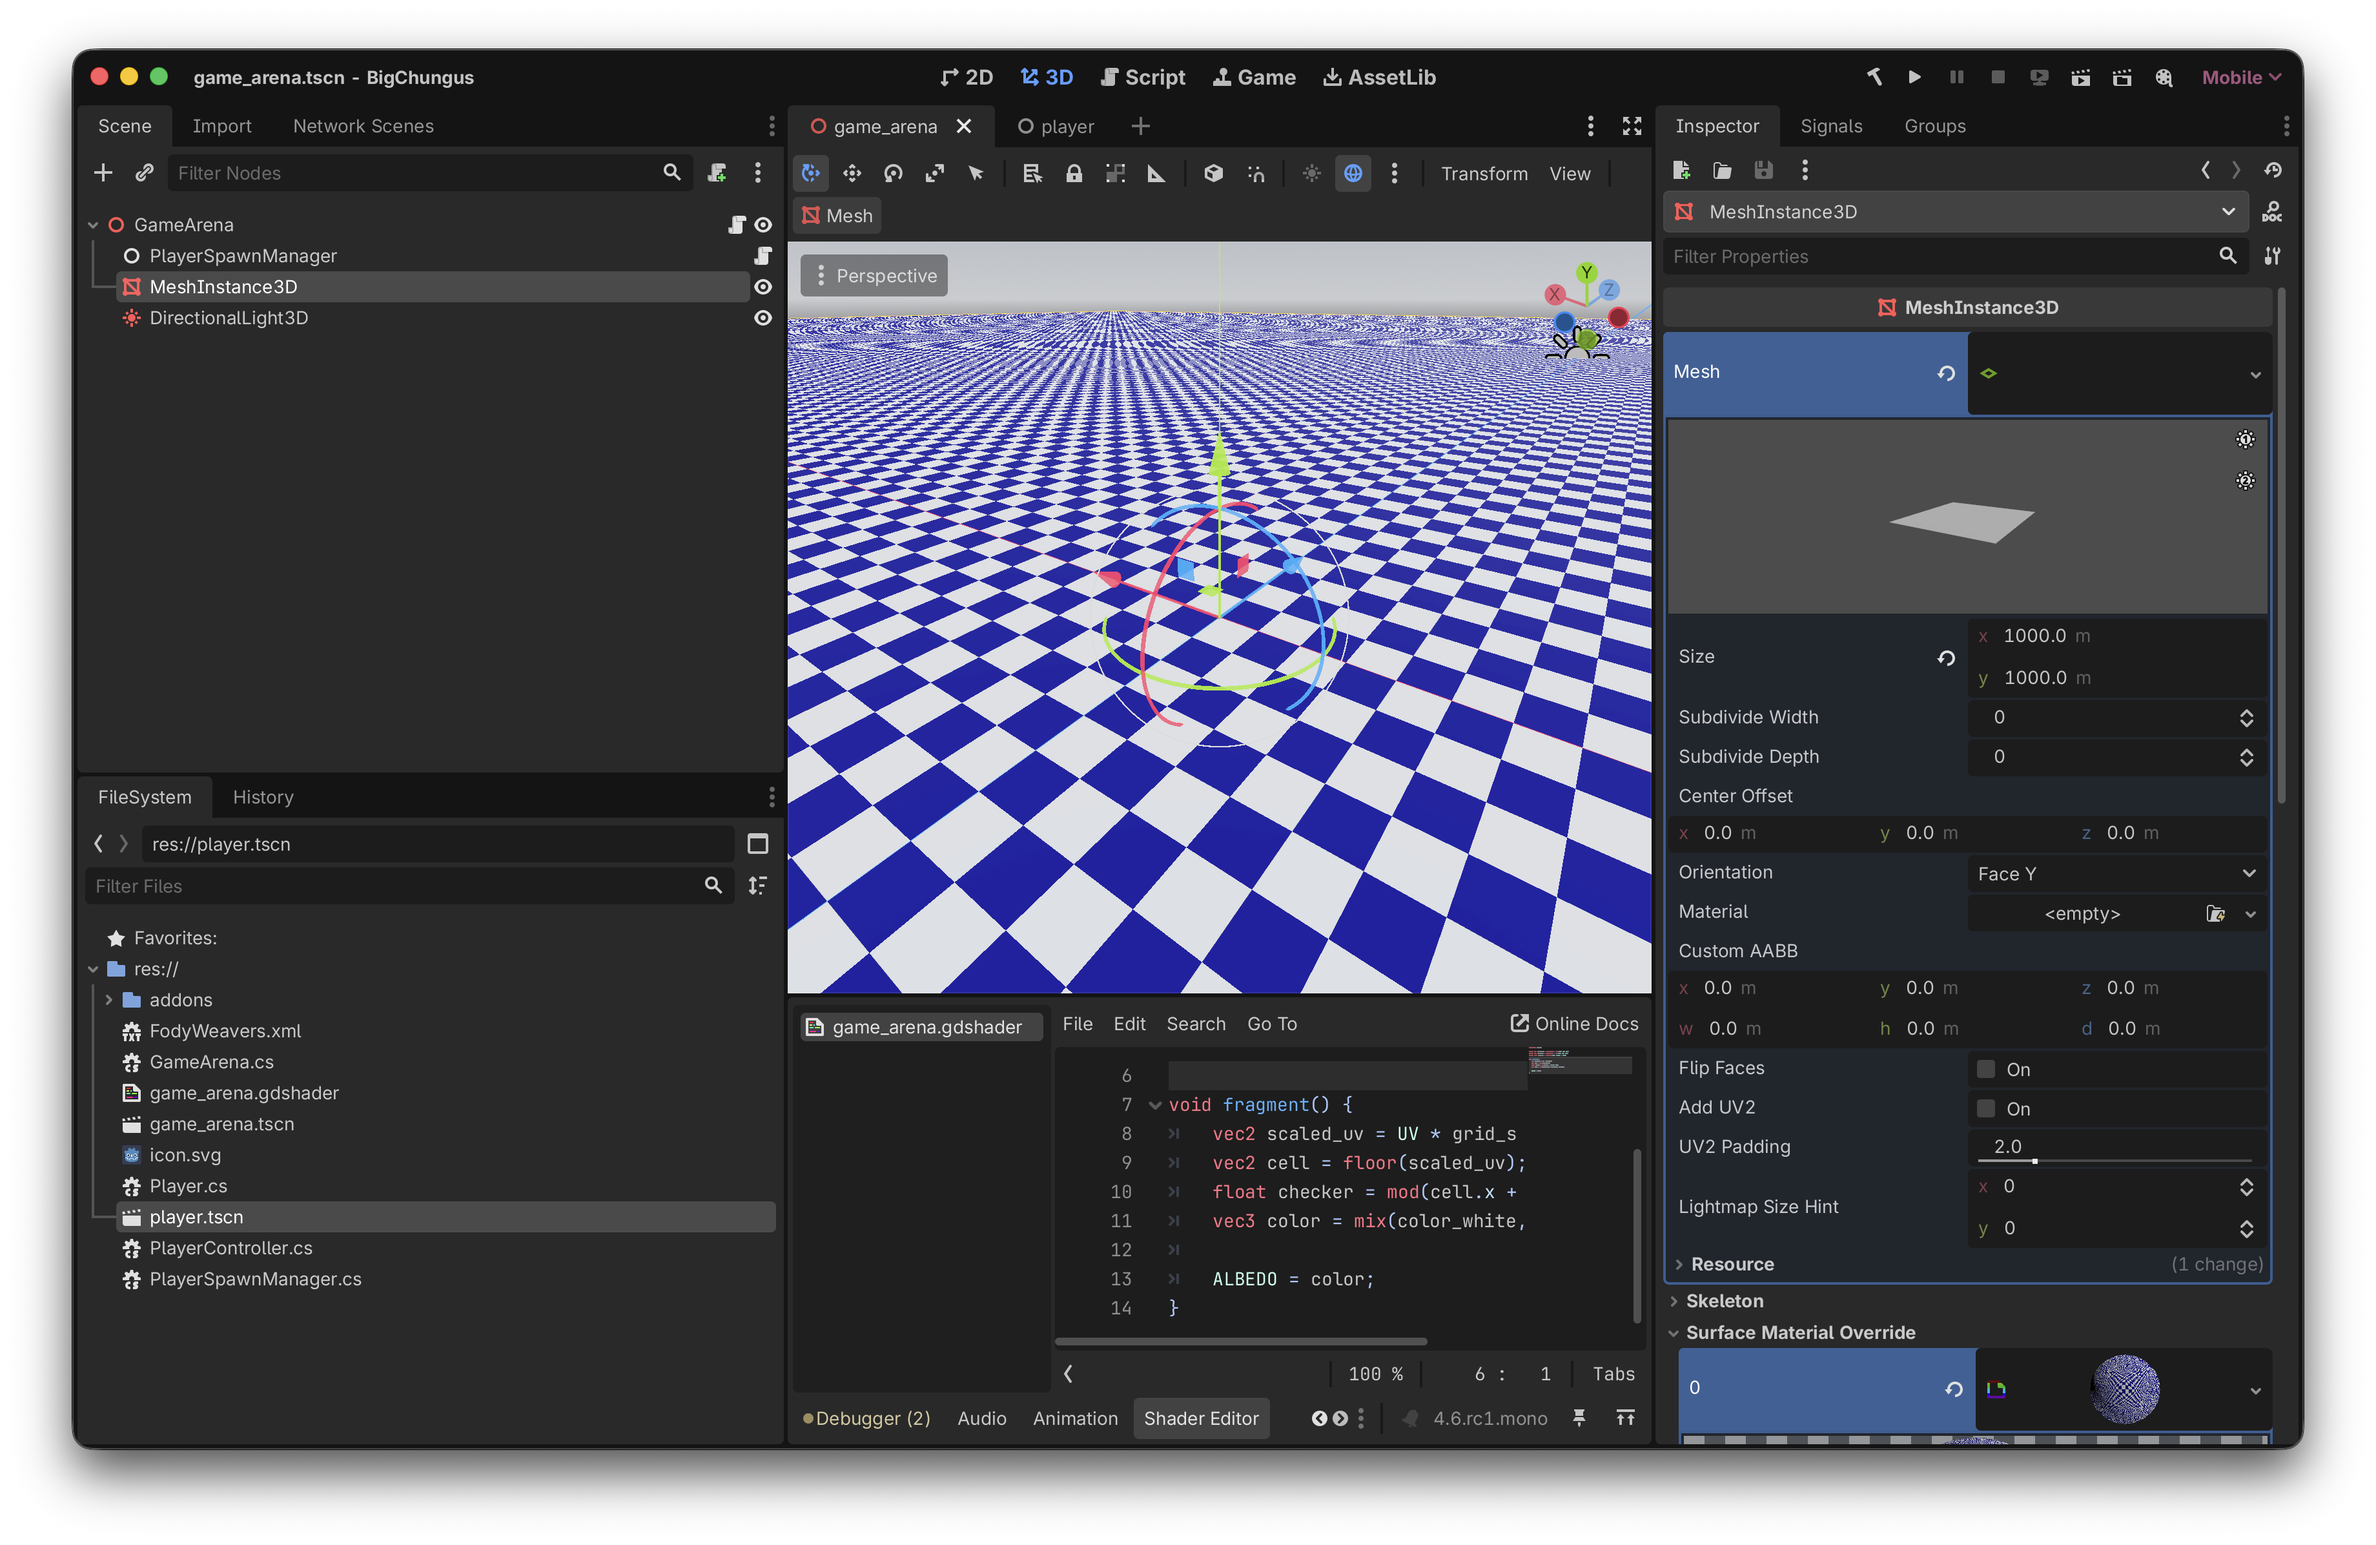
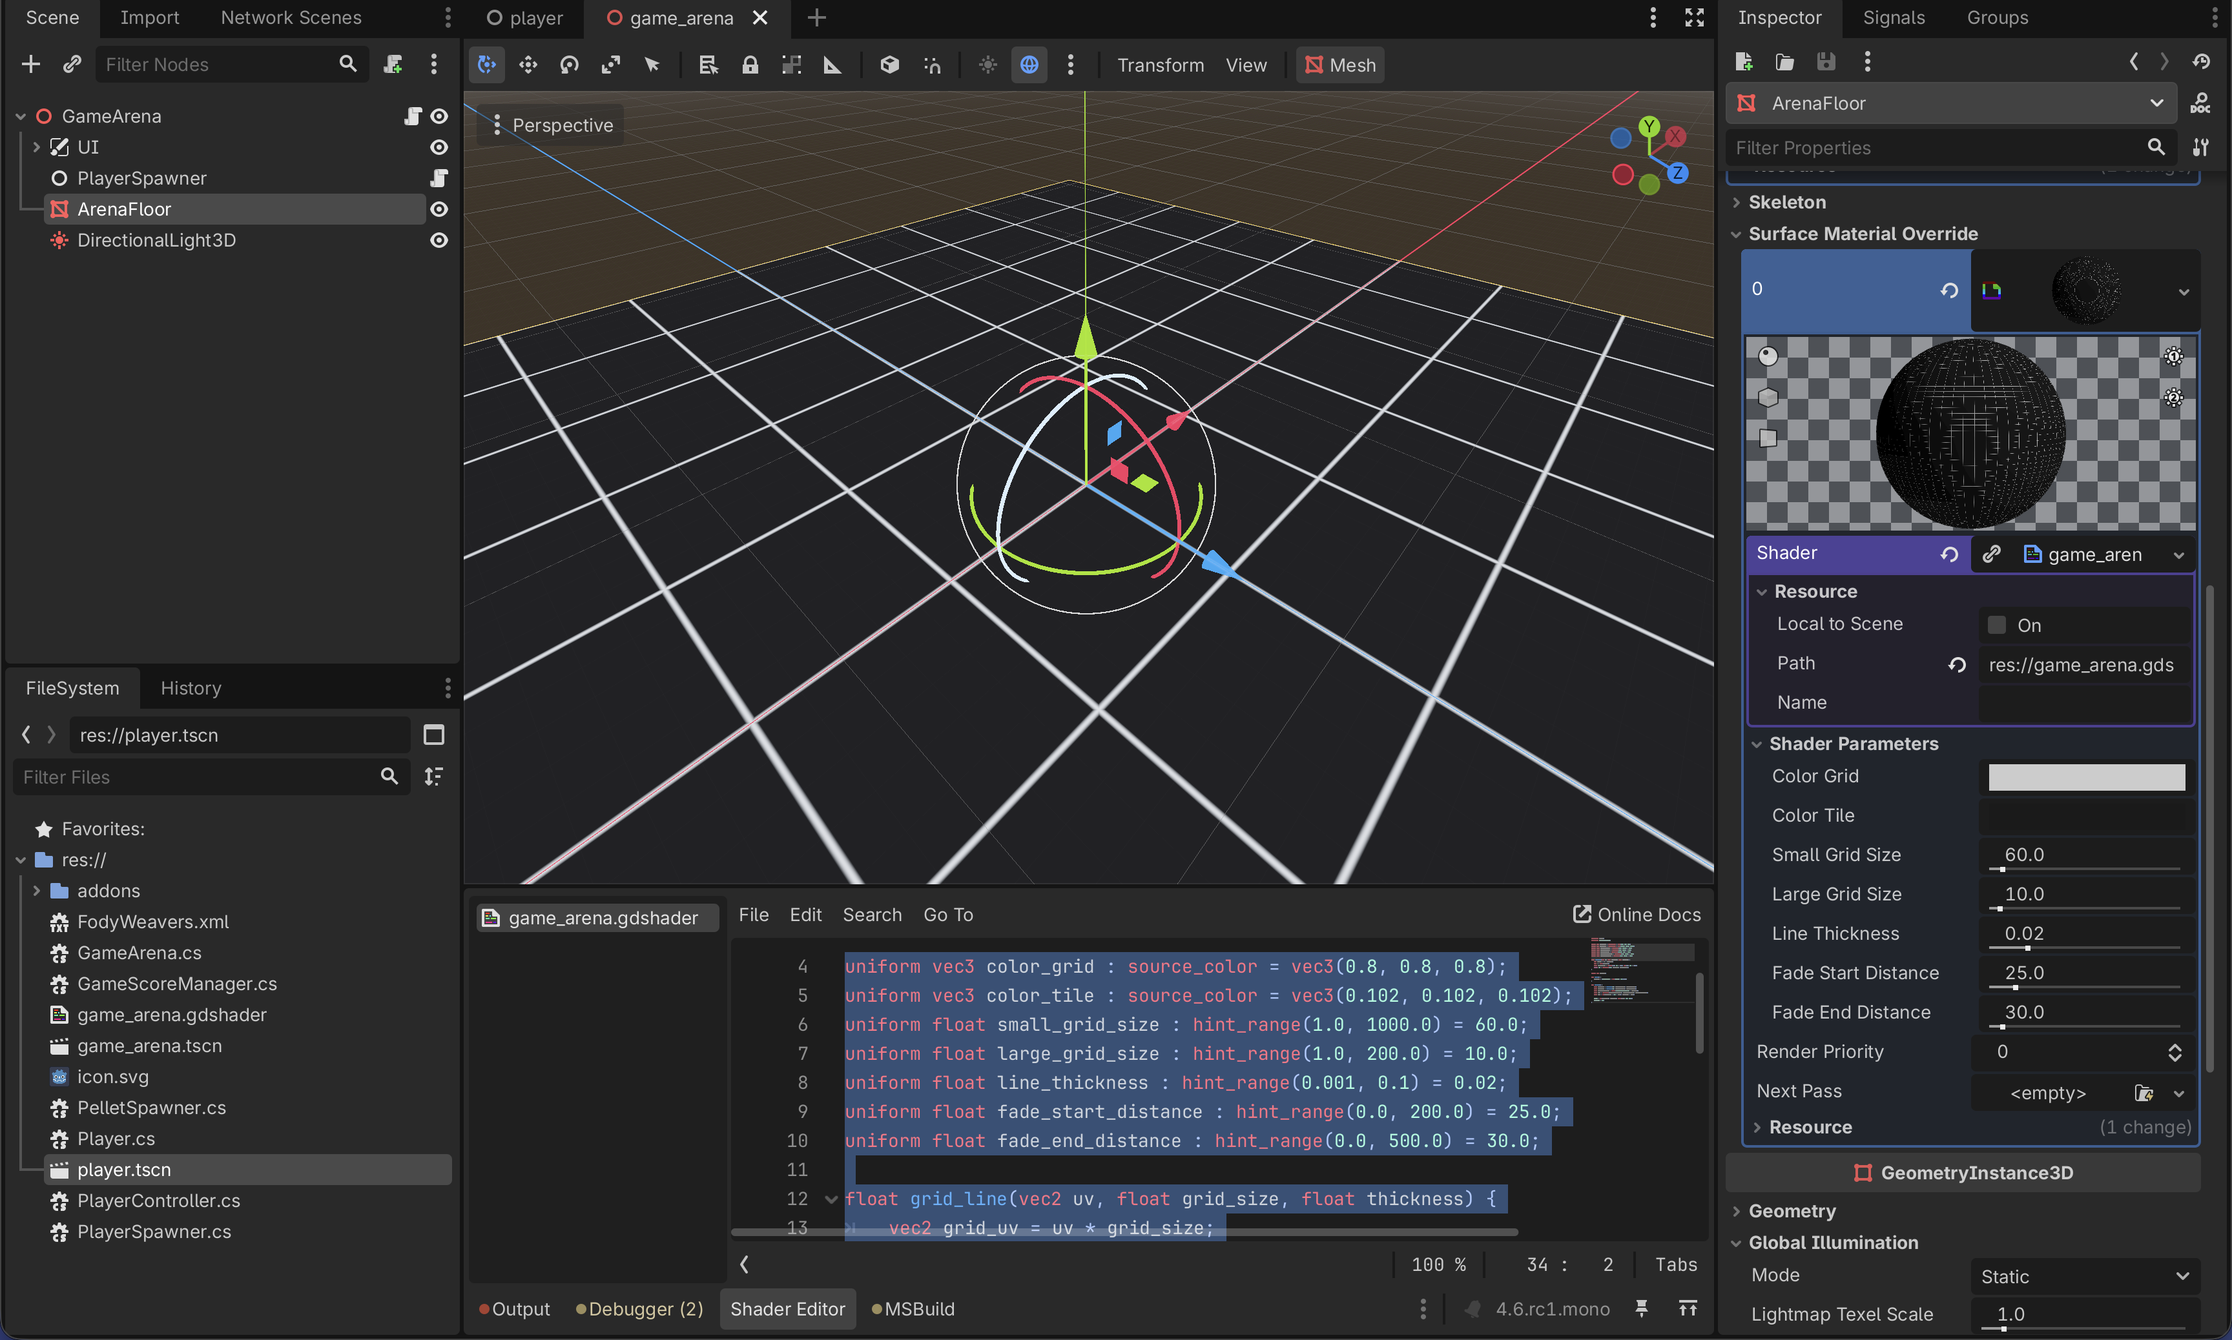
Chapter 2 cleanup (#48)

diff --git a/Documentation/tutorials/big-chungus-online/chapter-2-building-the-game.md b/Documentation/tutorials/big-chungus-online/chapter-2-building-the-game.md
@@ -74,8 +74,8 @@ public partial class Player : NetNode
         if (Network.IsClient && Network.IsCurrentOwner) {
             var camera = new Camera3D();
             camera.Position = new Vector3(0, 10, 0);
-            camera.LookAt(new Vector3(0, 0, 0));
             GetNode("Model").AddChild(camera);
+            camera.LookAt(new Vector3(0, 0, 0));
         }
     }
 }
@@ -88,74 +88,182 @@ A few things are happening here:
 3. We check if it is a client running the code (we don't want the server to add a camera) and we make sure the current client owns the NetNode.
 4. We instantiate our camera to be positioned above the model and pointing downwards, to look at it from above.
 
+## Main Menu
+
+Real quick, we'll setup a spot for the players to drop into once they open the game, as well as where to return when their character is eaten.
+
+Let's put together a quick and simple UI for this purpose. It can be laid out however we want, so feel free to be creative. The most imporant element is a button to enter the game.
+
+Here's an example layout:
+
+![Player Spawn Manager Setup](~/images/big-chungus/chapter-2/ui.png)
+
+![Player Spawn Manager Setup](~/images/big-chungus/chapter-2/ui-preview.png)
+
 ## Spawning And Playing
 
-Now let's go ahead and spawn our players in. Going back to `game_arena.tscn` we'll add a new Node called "PlayerSpawnManager" with a script attached:
+Now let's go ahead and spawn our players in when they click Play. Going back to `game_arena.tscn` we'll add a new Node called "PlayerSpawner" with a script attached:
 
 ![Player Spawn Manager Setup](~/images/big-chungus/chapter-2/player-spawn-manager-setup.png)
 
+
 ```cs
+using System.Collections.Generic;
 using Godot;
 using Nebula;
 
-public partial class PlayerSpawnManager : NetNode
+public partial class PlayerSpawner : NetNode
 {
     [Export]
     public PackedScene CharacterScene;
-    public override void _WorldReady()
+
+    [Export]
+    public Control StartScreen;
+    
+    [Export]
+    public Control ScoreContainer;
+}
+```
+
+First, let's create handlers for when they click "Play" and "Exit", wiring up the button Pressed signals to their respective functions:
+
+```cs
+    public void _OnPlay()
     {
-        base._WorldReady();
-        
-        if (Network.IsServer) {
-            Network.CurrentWorld.OnPlayerJoined += _OnPlayerJoined;
-        }
+        StartScreen.Visible = false;
+        ScoreContainer.Visible = true;
+        JoinGame();
     }
 
-    private void _OnPlayerJoined(UUID peerId)
+    public void _OnExit()
     {
-        var playerCharacter = CharacterScene.Instantiate<Player>();
-        Network.CurrentWorld.Spawn(playerCharacter, inputAuthority: NetRunner.Instance.Peers[peerId]);
+        GetTree().Quit();
+    }
+```
+
+Now we'll implement JoinGame. This will be how our client tells our server to spawn them in with a new player.
+
+```cs
+    [NetFunction(Source = NetFunction.NetworkSources.Client, ExecuteOnCaller = false)]
+    public void JoinGame()
+    {
+    }
+```
+
+Here we're defining a `NetFunction`. This is Nebula's version of an RPC. `Source` and `ExecuteOnCaller` parameters are self-explanatory: the RPC can only be initiated by a client, and the caller will not execute the function themselves.
+
+In other words, a client can call `JoinGame()` and it will only run on the server.
+
+This function is very simple: the server must spawn a new player scene for the client.
+
+```cs
+    [NetFunction(Source = NetFunction.NetworkSources.Client, ExecuteOnCaller = false)]
+    public void JoinGame()
+    {   
+        var newPlayer = CharacterScene.Instantiate<Player>();
+        Network.CurrentWorld.Spawn(newPlayer, inputAuthority: Network.CurrentWorld.NetFunctionContext.Caller);
+    }
+```
+
+That's it! So to recap:
+
+1. Client clicks "Play!" UI button
+2. UI button calls `_OnPlay()` via a "Pressed" signal
+3. `_OnPlay()` calls `JoinGame()`
+4. `JoinGame` executes on the server
+5. The server spawns a new player character scene and sets the "Input Authority" to the client that called JoinGame
+
+Input Authority is essentially the "Owner". It says which client owns the node, meaning they're allowed to send inputs (like movement) to that node. Earlier, we had that conditional `Network.IsCurrentOwner`. This is exactly what that is.
+
+So the overall script for player spawning will look like this:
+
+```cs
+using System.Collections.Generic;
+using Godot;
+using Nebula;
+
+public partial class PlayerSpawner : NetNode
+{
+    [Export]
+    public PackedScene CharacterScene;
+
+    [Export]
+    public Control StartScreen;
+    
+    [Export]
+    public Control ScoreContainer;
+
+    [NetFunction(Source = NetFunction.NetworkSources.Client, ExecuteOnCaller = false)]
+    public void JoinGame()
+    {
+        var newPlayer = CharacterScene.Instantiate<Player>();
+        Network.CurrentWorld.Spawn(newPlayer, inputAuthority: Network.CurrentWorld.NetFunctionContext.Caller);
+    }
+
+    public void _OnPlay()
+    {
+        StartScreen.Visible = false;
+        ScoreContainer.Visible = true;
+        JoinGame();
+    }
+
+    public void _OnExit()
+    {
+        GetTree().Quit();
     }
 }
 ```
 
-Be sure to attach the character scene:
-![Attach Character Scene](~/images/big-chungus/chapter-2/character-scene.png)
-
-On the server side, the PlayerSpawnManager is hooking into the World's "player join" event, and spawning a player.tscn for them.
-
-Notice the `inputAuthority` part? That's what designates who owns the node. Earlier in our `Player.cs` script we had `Network.IsCurrentOwner`. We're saying the peer who just joined is the owner if this newly spawned node. We'll see more about what that means shortly.
+>[!WARNING] Be sure to attach the exported variables in Godot! You'll need to attach the character scene, the start screen UI to hide, and the score container to show when they join the game.
 
 ## Level Setup & Running The Game
 
-Let's get ready to run the game. The last thing we'll do is just add a plane MeshInstance3D to the `game_arena.tscn` for the "floor" of the level that our players can move around on. We can also add a custom texture to it, to make it easy to see when the player is moving. Here's a simple shader which will render a grid on the plane:
+The last thing we'll do is just add a plane MeshInstance3D to the `game_arena.tscn` for the "floor" of the level that our players can move around on, and a directional light to see.
+
+We can also add a custom texture to the floor, to make it easy to see when the player is moving and make things look more interesting. Here's a simple shader which will render a grid on the plane:
 
 
-```
+```GLSL
 shader_type spatial;
+render_mode specular_disabled;
 
-uniform vec3 color_white : source_color = vec3(0.8, 0.8, 0.8);
-uniform vec3 color_navy : source_color = vec3(0.0, 0.0, 0.5);
-uniform float grid_size : hint_range(1.0, 1000.0) = 500.0;
+uniform vec3 color_grid : source_color = vec3(0.8, 0.8, 0.8);
+uniform vec3 color_tile : source_color = vec3(0.102, 0.102, 0.102);
+uniform float small_grid_size : hint_range(1.0, 1000.0) = 60.0;
+uniform float large_grid_size : hint_range(1.0, 200.0) = 10.0;
+uniform float line_thickness : hint_range(0.001, 0.1) = 0.02;
+uniform float fade_start_distance : hint_range(0.0, 200.0) = 25.0;
+uniform float fade_end_distance : hint_range(0.0, 500.0) = 30.0;
+
+float grid_line(vec2 uv, float grid_size, float thickness) {
+	vec2 grid_uv = uv * grid_size;
+	vec2 f = fract(grid_uv);
+	float dist_to_line = min(min(f.x, 1.0 - f.x), min(f.y, 1.0 - f.y));
+	return 1.0 - smoothstep(0.0, thickness, dist_to_line);
+}
+
+varying vec3 world_pos;
+
+void vertex() {
+	world_pos = (MODEL_MATRIX * vec4(VERTEX, 1.0)).xyz;
+}
 
 void fragment() {
-	vec2 scaled_uv = UV * grid_size;
-	vec2 cell = floor(scaled_uv);
-	float checker = mod(cell.x + cell.y, 2.0);
-	vec3 color = mix(color_white, color_navy, checker);
-	
-	ALBEDO = color;
+	float small_line = grid_line(UV, small_grid_size, line_thickness);
+	float large_line = grid_line(UV, large_grid_size, line_thickness);
+	float distance_to_camera = length(CAMERA_POSITION_WORLD - world_pos);
+	float fade = smoothstep(fade_start_distance, fade_end_distance, distance_to_camera);
+	float line = max(small_line * (1.0 - fade), large_line * fade);
+
+	ALBEDO = mix(color_tile, color_grid, clamp(line, 0.0, 1.0));
+	ROUGHNESS = 1.0;
 }
 ```
 
 ![Level Floor Setup](~/images/big-chungus/chapter-2/level-floor-setup.png)
 
-Let's also add a simple directional light with shadow casting.
-
-![Light Setup](~/images/big-chungus/chapter-2/light-setup.png)
-
 That's it! Now run the game and we should see something similar to the following:
 
-![First Game Run](~/images/big-chungus/chapter-2/game-animation.gif)
+![First Game Run](~/images/big-chungus/chapter-2/players.gif)
 
-The player characters and game arena are all setup. In the next chapter, we'll handle player inputs (movement), and points / character growth.
+The player characters and game arena are all setup. In the next chapter, we'll handle the core gameplay: player inputs (movement); points; character growth.

diff --git a/README.md b/README.md
@@ -245,7 +245,7 @@ worldRunner.Spawn(player, inputAuthority: peer);
 
 ## Documentation
 
-Comprehensive documentation is available at: **https://nebula.dev.heavenlode.com**
+Comprehensive documentation is available at: **https://nebula.heavenlode.com**
 
 For implementation details and architecture overview, see [NEBULA_OVERVIEW.mdc](./NEBULA_OVERVIEW.mdc). This file is particularly useful for AI/vibe coding as well.
 

diff --git a/Documentation/tutorials/big-chungus-online/chapter-1-getting-started.md b/Documentation/tutorials/big-chungus-online/chapter-1-getting-started.md
@@ -13,6 +13,7 @@ As an introduction to Nebula, we're going to make a game called Big Chungus Onli
 >[!NOTE] The tutorial was done on macOS, but the steps should all be basically the same on Windows and Linux.
 
 By the end of this tutorial, you'll have made this game:
+
 ![Demo](~/images/big-chungus/chapter-1/completed-game.gif)
 
 ## Installation
